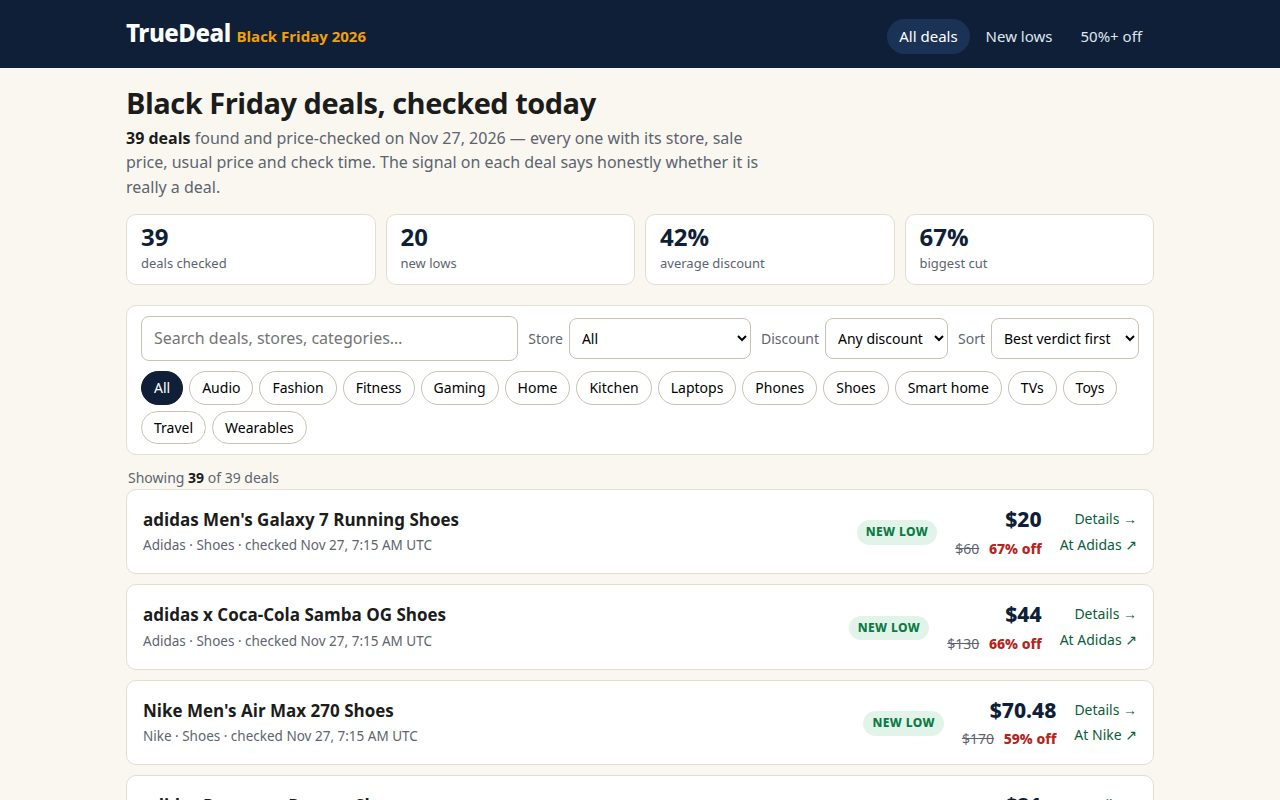
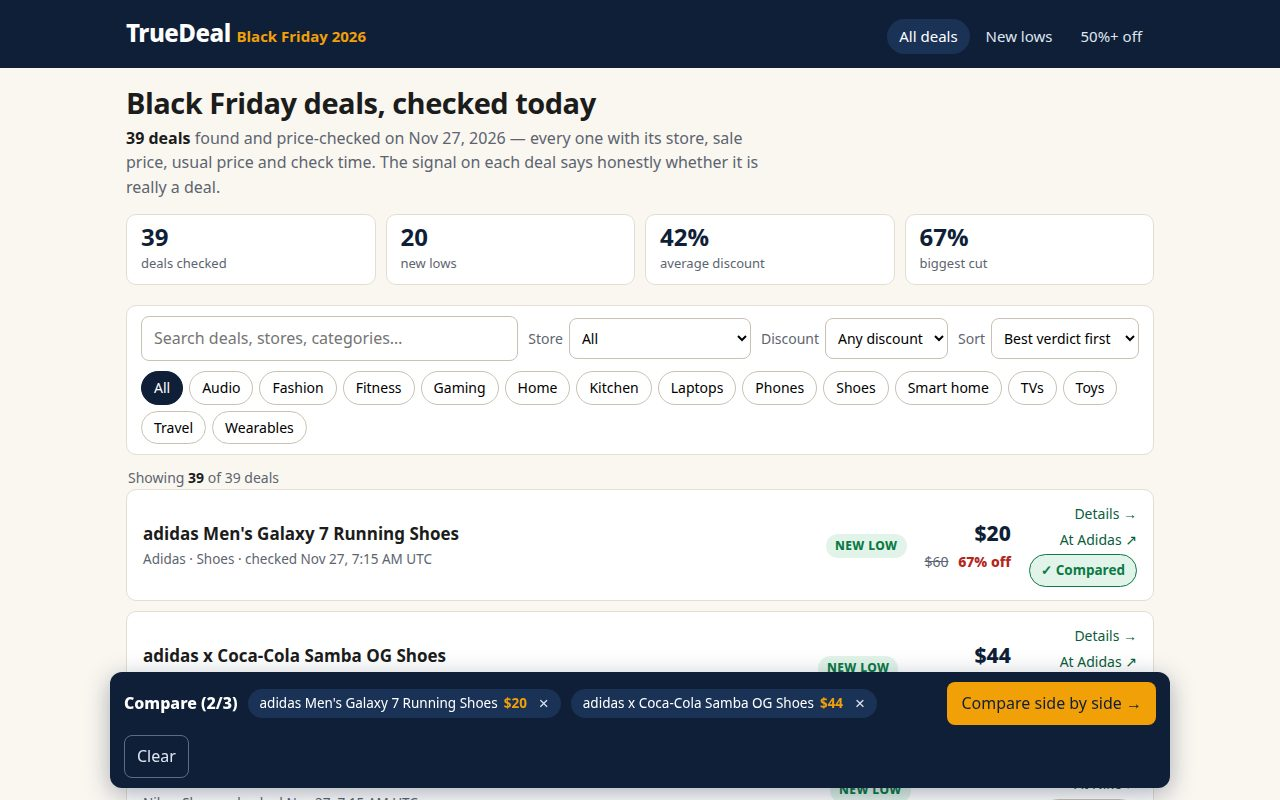
TrueDeal: compare up to 3 deals side by side

Changed region(s): [[0.0625, 0.625, 0.9375, 1.0], [0.0938, 0.625, 0.375, 0.7188]]

diff --git a/app/compare.js b/app/compare.js
@@ -1,0 +1,105 @@
+// Compare deals side by side. This module owns the picked set (at most three deals), the maths
+// (what each deal saves, which one saves the most) and the HTML for the compare bar and the compare
+// table. views.js and main.js call into it; it never touches the page itself, so the logic stays
+// testable in plain Node. The picked set lives in this module, so it survives the list re-rendering
+// after a search or a filter change.
+
+import { percentOff } from "./filters.js";
+
+export const MAX_COMPARE = 3;
+
+const picked = new Set();
+
+export function toggle(id) {
+  if (picked.has(id)) {
+    picked.delete(id);
+    return false;
+  }
+  if (picked.size >= MAX_COMPARE) return null; // full: the buttons go disabled instead
+  picked.add(id);
+  return true;
+}
+
+export function clear() {
+  picked.clear();
+}
+
+export function has(id) {
+  return picked.has(id);
+}
+
+export function count() {
+  return picked.size;
+}
+
+export function pickedIds() {
+  return [...picked];
+}
+
+export function pickedDeals(deals) {
+  return pickedIds()
+    .map((id) => deals.find((d) => d.id === id))
+    .filter(Boolean);
+}
+
+export function savings(d) {
+  return Math.round((d.was - d.price) * 100) / 100;
+}
+
+const money = (n) =>
+  `$${Number(n).toLocaleString("en-US", { minimumFractionDigits: Number.isInteger(n) ? 0 : 2, maximumFractionDigits: 2 })}`;
+const escape = (s) => String(s).replace(/[&<>\"']/g, (c) => `&#${c.charCodeAt(0)};`);
+const SIGNAL_LABEL = { "new-low": "NEW LOW", strong: "STRONG PRICE", routine: "ROUTINE SALE", unknown: "CHECKED" };
+const day = (iso) =>
+  new Date(iso).toLocaleString("en-US", { month: "short", day: "numeric", hour: "numeric", minute: "2-digit", timeZone: "UTC" }) +
+  " UTC";
+
+function bestOf(list, key) {
+  if (list.length === 0) return null;
+  return list.reduce((best, d) => (key(d) > key(best) ? d : best), list[0]).id;
+}
+
+// The bar pinned to the bottom of the list page: what is picked, a button to the table, a clear button.
+export function barHtml(list) {
+  if (list.length === 0) return "";
+  const items = list
+    .map(
+      (d) =>
+        `<span class="cmp-pick">${escape(d.title)} <b>${money(d.price)}</b><button type="button" class="cmp-remove" data-remove="${escape(d.id)}" aria-label="Remove ${escape(d.title)} from compare">&times;</button></span>`,
+    )
+    .join("");
+  return `<div class="compare-bar-inner">
+    <span class="cmp-label">Compare (${list.length}/${MAX_COMPARE})</span>
+    ${items}
+    <button type="button" id="compare-go" ${list.length < 2 ? "disabled" : ""}>Compare side by side &rarr;</button>
+    <button type="button" id="compare-clear">Clear</button>
+  </div>`;
+}
+
+// The table: one column per deal, one row per fact, with the best saver and the biggest cut marked.
+export function tableHtml(list) {
+  if (list.length < 2) {
+    return `<h1>Compare deals</h1><p>Pick at least two deals to compare them side by side. Go back to <a href="#/">all deals</a> and press <b>+ Compare</b> on the ones you want.</p>`;
+  }
+  const bestSave = bestOf(list, savings);
+  const bestPct = bestOf(list, percentOff);
+  const row = (label, cell) => `<tr><th scope="row">${label}</th>${list.map((d) => `<td>${cell(d)}</td>`).join("")}</tr>`;
+  const star = (d, id) => (d.id === id ? ` <span class="best">&#9733; best</span>` : "");
+  return `<p><a class="back" href="#/">&larr; All deals</a></p>
+<h1>Compare ${list.length} deals</h1>
+<p class="lede">The same facts the list shows — sale price, usual price, discount and check time — next to each other, so the better deal is the one you can see.</p>
+<div class="compare-wrap"><table class="compare-table">
+  <thead><tr><th scope="col"></th>${list.map((d) => `<th scope="col"><a href="#/deal/${encodeURIComponent(d.id)}">${escape(d.title)}</a></th>`).join("")}</tr></thead>
+  <tbody>
+    ${row("Store", (d) => escape(d.store))}
+    ${row("Sale price", (d) => `<b>${money(d.price)}</b>`)}
+    ${row("Usual price", (d) => `<s>${money(d.was)}</s>`)}
+    ${row("Discount", (d) => `<span class="off">${percentOff(d)}% off</span>${star(d, bestPct)}`)}
+    ${row("You save", (d) => `<b>${money(savings(d))}</b>${star(d, bestSave)}`)}
+    ${row("Signal", (d) => `<span class="badge ${escape(d.signal)}">${SIGNAL_LABEL[d.signal] || "CHECKED"}</span>`)}
+    ${row("Checked", (d) => day(d.checked))}
+    ${row("At the store", (d) => `<a href="${escape(d.url)}" rel="noopener">At ${escape(d.store)} &nearr;</a>`)}
+  </tbody>
+</table></div>
+<p><button type="button" id="compare-clear-table" class="cmp-btn">Clear comparison</button></p>`;
+}

diff --git a/app/style.css b/app/style.css
@@ -217,3 +217,115 @@ footer p { margin: 6px 0; }
   dl.facts { grid-template-columns: 1fr; gap: 0; }
   dl.facts dd { margin-bottom: 8px; }
 }
+
+/* Compare deals */
+.cmp-btn {
+  font: inherit;
+  font-size: 13.5px;
+  padding: 5px 11px;
+  border-radius: 999px;
+  border: 1px solid #c9c2b4;
+  background: #fff;
+  cursor: pointer;
+  color: var(--navy);
+  font-weight: 700;
+  white-space: nowrap;
+}
+.cmp-btn:hover { border-color: var(--navy); }
+.cmp-btn[aria-pressed="true"] { background: var(--green-bg); border-color: var(--green); color: var(--green); }
+.cmp-btn:disabled { opacity: 0.45; cursor: default; }
+.cmp-hint { font-size: 14px; color: var(--muted); }
+#compare-bar { margin-top: 14px; }
+.compare-bar-inner {
+  position: fixed;
+  left: 50%;
+  transform: translateX(-50%);
+  bottom: 12px;
+  z-index: 20;
+  width: min(1060px, calc(100% - 32px));
+  display: flex;
+  gap: 10px;
+  align-items: center;
+  flex-wrap: wrap;
+  background: var(--navy);
+  color: #fff;
+  border-radius: 12px;
+  padding: 10px 14px;
+  box-shadow: 0 6px 24px rgba(16, 31, 56, 0.35);
+}
+.cmp-label { font-weight: 800; white-space: nowrap; }
+.cmp-pick {
+  background: var(--navy-soft);
+  border-radius: 999px;
+  padding: 4px 6px 4px 12px;
+  font-size: 13.5px;
+  display: inline-flex;
+  gap: 6px;
+  align-items: center;
+}
+.cmp-pick b { color: var(--amber); }
+.cmp-remove {
+  border: 0;
+  background: transparent;
+  color: #dfe6f2;
+  font-size: 17px;
+  line-height: 1;
+  cursor: pointer;
+  padding: 2px 6px;
+  border-radius: 999px;
+}
+.cmp-remove:hover { background: rgba(255, 255, 255, 0.18); color: #fff; }
+#compare-go {
+  background: var(--amber);
+  color: var(--navy);
+  font-weight: 800;
+  border: 0;
+  border-radius: 8px;
+  padding: 9px 14px;
+  font: inherit;
+  cursor: pointer;
+  margin-left: auto;
+  white-space: nowrap;
+}
+#compare-go:disabled { opacity: 0.5; cursor: default; }
+#compare-clear {
+  background: transparent;
+  color: #dfe6f2;
+  border: 1px solid #5b6b8a;
+  border-radius: 8px;
+  padding: 8px 12px;
+  font: inherit;
+  cursor: pointer;
+  white-space: nowrap;
+}
+.compare-wrap {
+  overflow-x: auto;
+  background: var(--card);
+  border: 1px solid var(--line);
+  border-radius: 12px;
+}
+.compare-table { border-collapse: collapse; width: 100%; min-width: 640px; }
+.compare-table th,
+.compare-table td {
+  padding: 11px 14px;
+  border-top: 1px solid var(--line);
+  text-align: left;
+  vertical-align: top;
+  font-size: 15px;
+}
+.compare-table thead th { border-top: 0; background: var(--paper); }
+.compare-table tbody th { color: var(--muted); font-weight: 700; white-space: nowrap; width: 130px; }
+.compare-table .best {
+  display: inline-block;
+  background: var(--green-bg);
+  color: var(--green);
+  font-weight: 800;
+  font-size: 12px;
+  padding: 2px 8px;
+  border-radius: 999px;
+  margin-left: 6px;
+  white-space: nowrap;
+}
+@media (max-width: 720px) {
+  #compare-go { margin-left: 0; }
+}

diff --git a/app/main.js b/app/main.js
@@ -10,6 +10,7 @@
 import { deals } from "./data.js";
 import { applyFilters, percentOff, SIGNAL_RANK } from "./filters.js";
 import { deal, list, missing } from "./views.js";
+import { toggle, clear, has, pickedDeals, barHtml, tableHtml, count, MAX_COMPARE } from "./compare.js";
 
 const app = document.getElementById("app");
 
@@ -19,7 +20,12 @@ function render() {
   window.__shotReady = false;
   const hash = location.hash || "#/";
   const dealMatch = hash.match(/^#\/deal\/([^/?]+)/);
-  if (dealMatch) {
+  if (hash === "#/compare") {
+    const picked = pickedDeals(deals);
+    document.title = "Compare deals | TrueDeal";
+    app.innerHTML = tableHtml(picked);
+    document.querySelectorAll(".site-header nav a").forEach((a) => a.classList.remove("active"));
+  } else if (dealMatch) {
     const found = deals.find((d) => d.id === decodeURIComponent(dealMatch[1]));
     document.title = `${found ? found.title : "Not found"} | TrueDeal`;
     if (!found) {
@@ -51,6 +57,7 @@ function render() {
     });
     wireList();
   }
+  syncCompare();
   window.scrollTo(0, 0);
   window.__shotReady = true;
 }
@@ -98,6 +105,45 @@ function wireList() {
     });
   });
 }
+
+// The compare bar lives on the list page and the compare buttons live on every row and detail page.
+// One delegated listener on #app survives re-renders, so the buttons keep working after a search or
+// filter change; syncCompare fills the bar and keeps every button's label and state honest.
+function syncCompare() {
+  const bar = app.querySelector("#compare-bar");
+  if (bar) bar.innerHTML = barHtml(pickedDeals(deals));
+  app.querySelectorAll(".cmp-btn").forEach((b) => {
+    if (!b.dataset.id) return;
+    const on = has(b.dataset.id);
+    b.setAttribute("aria-pressed", String(on));
+    b.textContent = on ? "✓ Compared" : "+ Compare";
+    b.disabled = !on && count() >= MAX_COMPARE;
+  });
+}
+
+app.addEventListener("click", (event) => {
+  const btn = event.target.closest(".cmp-btn");
+  if (btn && btn.dataset.id) {
+    toggle(btn.dataset.id);
+    syncCompare();
+    return;
+  }
+  const remove = event.target.closest(".cmp-remove");
+  if (remove) {
+    toggle(remove.dataset.remove);
+    syncCompare();
+    return;
+  }
+  if (event.target.closest("#compare-go")) {
+    location.hash = "#/compare";
+    return;
+  }
+  if (event.target.closest("#compare-clear") || event.target.closest("#compare-clear-table")) {
+    clear();
+    if ((location.hash || "") === "#/compare") render();
+    else syncCompare();
+  }
+});
 
 window.addEventListener("hashchange", render);
 render();

diff --git a/app/views.js b/app/views.js
@@ -1,5 +1,6 @@
 // HTML for each page, built from the deal data. Every value is escaped before it goes into the page.
 import { percentOff, categoriesOf, storesOf, statsOf } from "./filters.js";
+import { has as isPicked, count as pickedCount, MAX_COMPARE } from "./compare.js";
 
 const escape = (s) => String(s).replace(/[&<>\"']/g, (c) => `&#${c.charCodeAt(0)};`);
 const usd = (n) => `$${Number(n).toLocaleString("en-US", { minimumFractionDigits: Number.isInteger(n) ? 0 : 2, maximumFractionDigits: 2 })}`;
@@ -55,7 +56,7 @@ export function rows(shown) {
   </div>
   <div>${badge(d.signal)}</div>
   <div class="price"><span class="sale">${usd(d.price)}</span><br><span class="was"><s>${usd(d.was)}</s> <span class="off">${percentOff(d)}% off</span></span></div>
-  <div class="deal-links"><a href="#/deal/${encodeURIComponent(d.id)}">Details &rarr;</a><a href="${escape(d.url)}" rel="noopener">At ${escape(d.store)} &nearr;</a></div>
+  <div class="deal-links"><a href="#/deal/${encodeURIComponent(d.id)}">Details &rarr;</a><a href="${escape(d.url)}" rel="noopener">At ${escape(d.store)} &nearr;</a><button type="button" class="cmp-btn" data-id="${escape(d.id)}" aria-pressed="${isPicked(d.id)}"${!isPicked(d.id) && pickedCount() >= MAX_COMPARE ? " disabled" : ""}>${isPicked(d.id) ? "✓ Compared" : "+ Compare"}</button></div>
 </li>`,
     )
     .join("");
@@ -73,7 +74,8 @@ export function list(deals, shown, state) {
 </div>
 ${filterBar(deals, state)}
 <p class="count">Showing <b>${shown.length}</b> of ${deals.length} deals</p>
-<ul class="deals">${rows(shown)}</ul>`;
+<ul class="deals">${rows(shown)}</ul>
+<div id="compare-bar"></div>`;
 }
 
 export function deal(d, related) {
@@ -101,6 +103,7 @@ export function deal(d, related) {
     <dt>Read in</dt><dd><a href="${escape(d.sourceUrl)}" rel="noopener">${escape(d.source)}</a></dd>
   </dl>
   <p><a class="store-btn" href="${escape(d.url)}" rel="noopener">Find it at ${escape(d.store)} &nearr;</a></p>
+  <p><button type="button" class="cmp-btn" data-id="${escape(d.id)}" aria-pressed="${isPicked(d.id)}">${isPicked(d.id) ? "✓ Compared" : "+ Compare"}</button> <span class="cmp-hint">Add it to a side-by-side comparison with up to two other deals.</span></p>
   <p style="color:#5d6470;font-size:14px">Price read ${day(d.checked)}. Prices change fast on Black Friday &mdash; the store page is the final word.</p>
 </div>
 ${rel}`;

diff --git a/README.md b/README.md
@@ -4,9 +4,9 @@
 [![rank](https://make.fun/badge/black-friday-deal-finder-01/naplex666/makefun-black-friday-deals/rank.svg)](https://make.fun/bounty/black-friday-deal-finder-01)
 [![reward](https://make.fun/badge/black-friday-deal-finder-01/naplex666/makefun-black-friday-deals/reward.svg)](https://make.fun/bounty/black-friday-deal-finder-01)
 
-A real Black Friday deal finder for the [make.fun bounty](https://make.fun/bounty/black-friday-deal-finder-01): a static site of Black Friday and Cyber Monday deals the agent found and checked itself on Nov 27, 2026. Every deal has its product, store, store link, sale price, usual price, discount, check time and source — plus an honest signal for whether it is really a deal (new low, strong price, routine sale, or checked with no record found).
+A static Black Friday deal finder built for the [make.fun bounty](https://make.fun/bounty/black-friday-deal-finder-01). It lists 39 Black Friday and Cyber Monday deals that were found and price-checked on Nov 27, 2026. Each deal shows the product, the store, a link to the store, the sale price, the usual price, the discount, the time the price was checked and the source — plus an honest signal: new low, strong price, routine sale, or checked with no record found.
 
-Search and filter by category, store and discount; sort by verdict, biggest discount or price. Works on desktop and on a phone, from static files with no network request.
+Search and filter by category, store and discount; sort by verdict, biggest discount or price; pick up to three deals and compare them side by side to see which one really saves the most. The site runs from static files with no network request, on desktop and on a phone.
 
 ## Run it
 
@@ -16,7 +16,7 @@ node serve.ts   # serves app/ on http://localhost:8080
 
 ## Hand in
 
-`main.ts` copies `app/` and `screenshots/` to `/output` and writes `/output/dossier.json` with the vendored make.fun library, as the kit's starter does.
+`main.ts` first validates every deal (required fields, sale below usual, known signal, readable check time, unique id), then copies `app/` and `screenshots/` to `/output` and writes `/output/dossier.json` with the vendored make.fun library, as the kit's starter does.
 
 ## License
 
